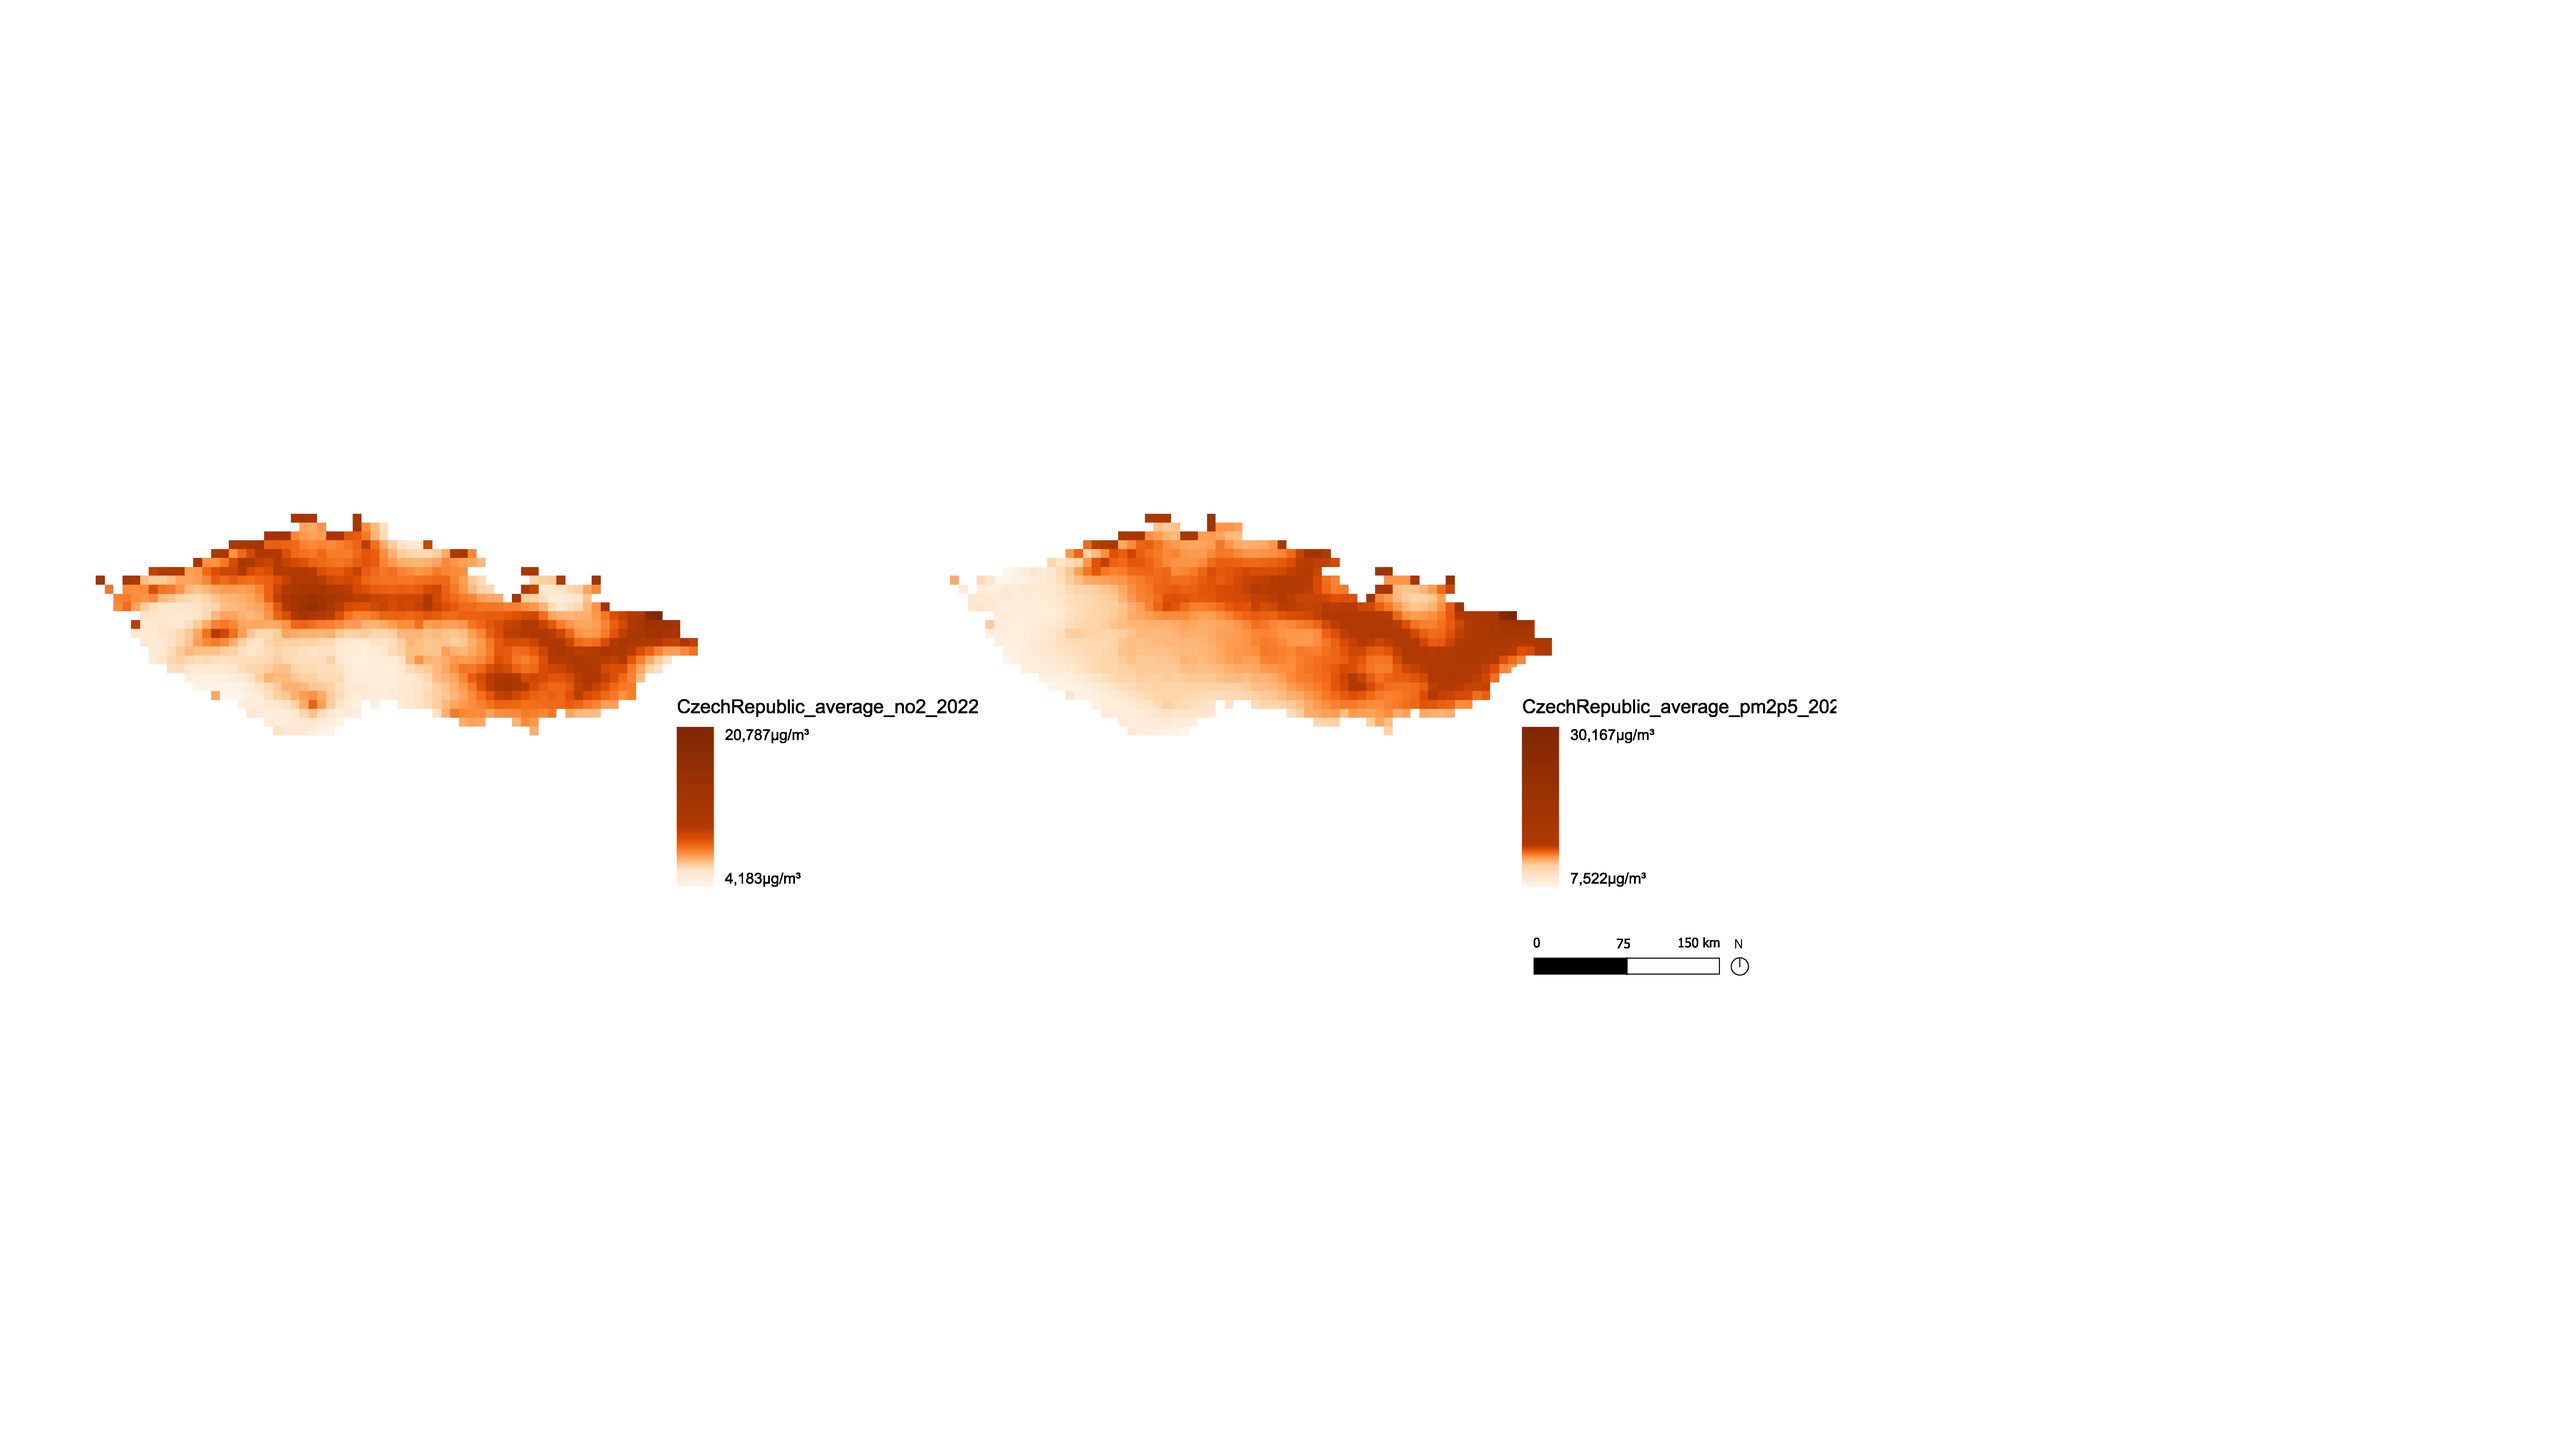
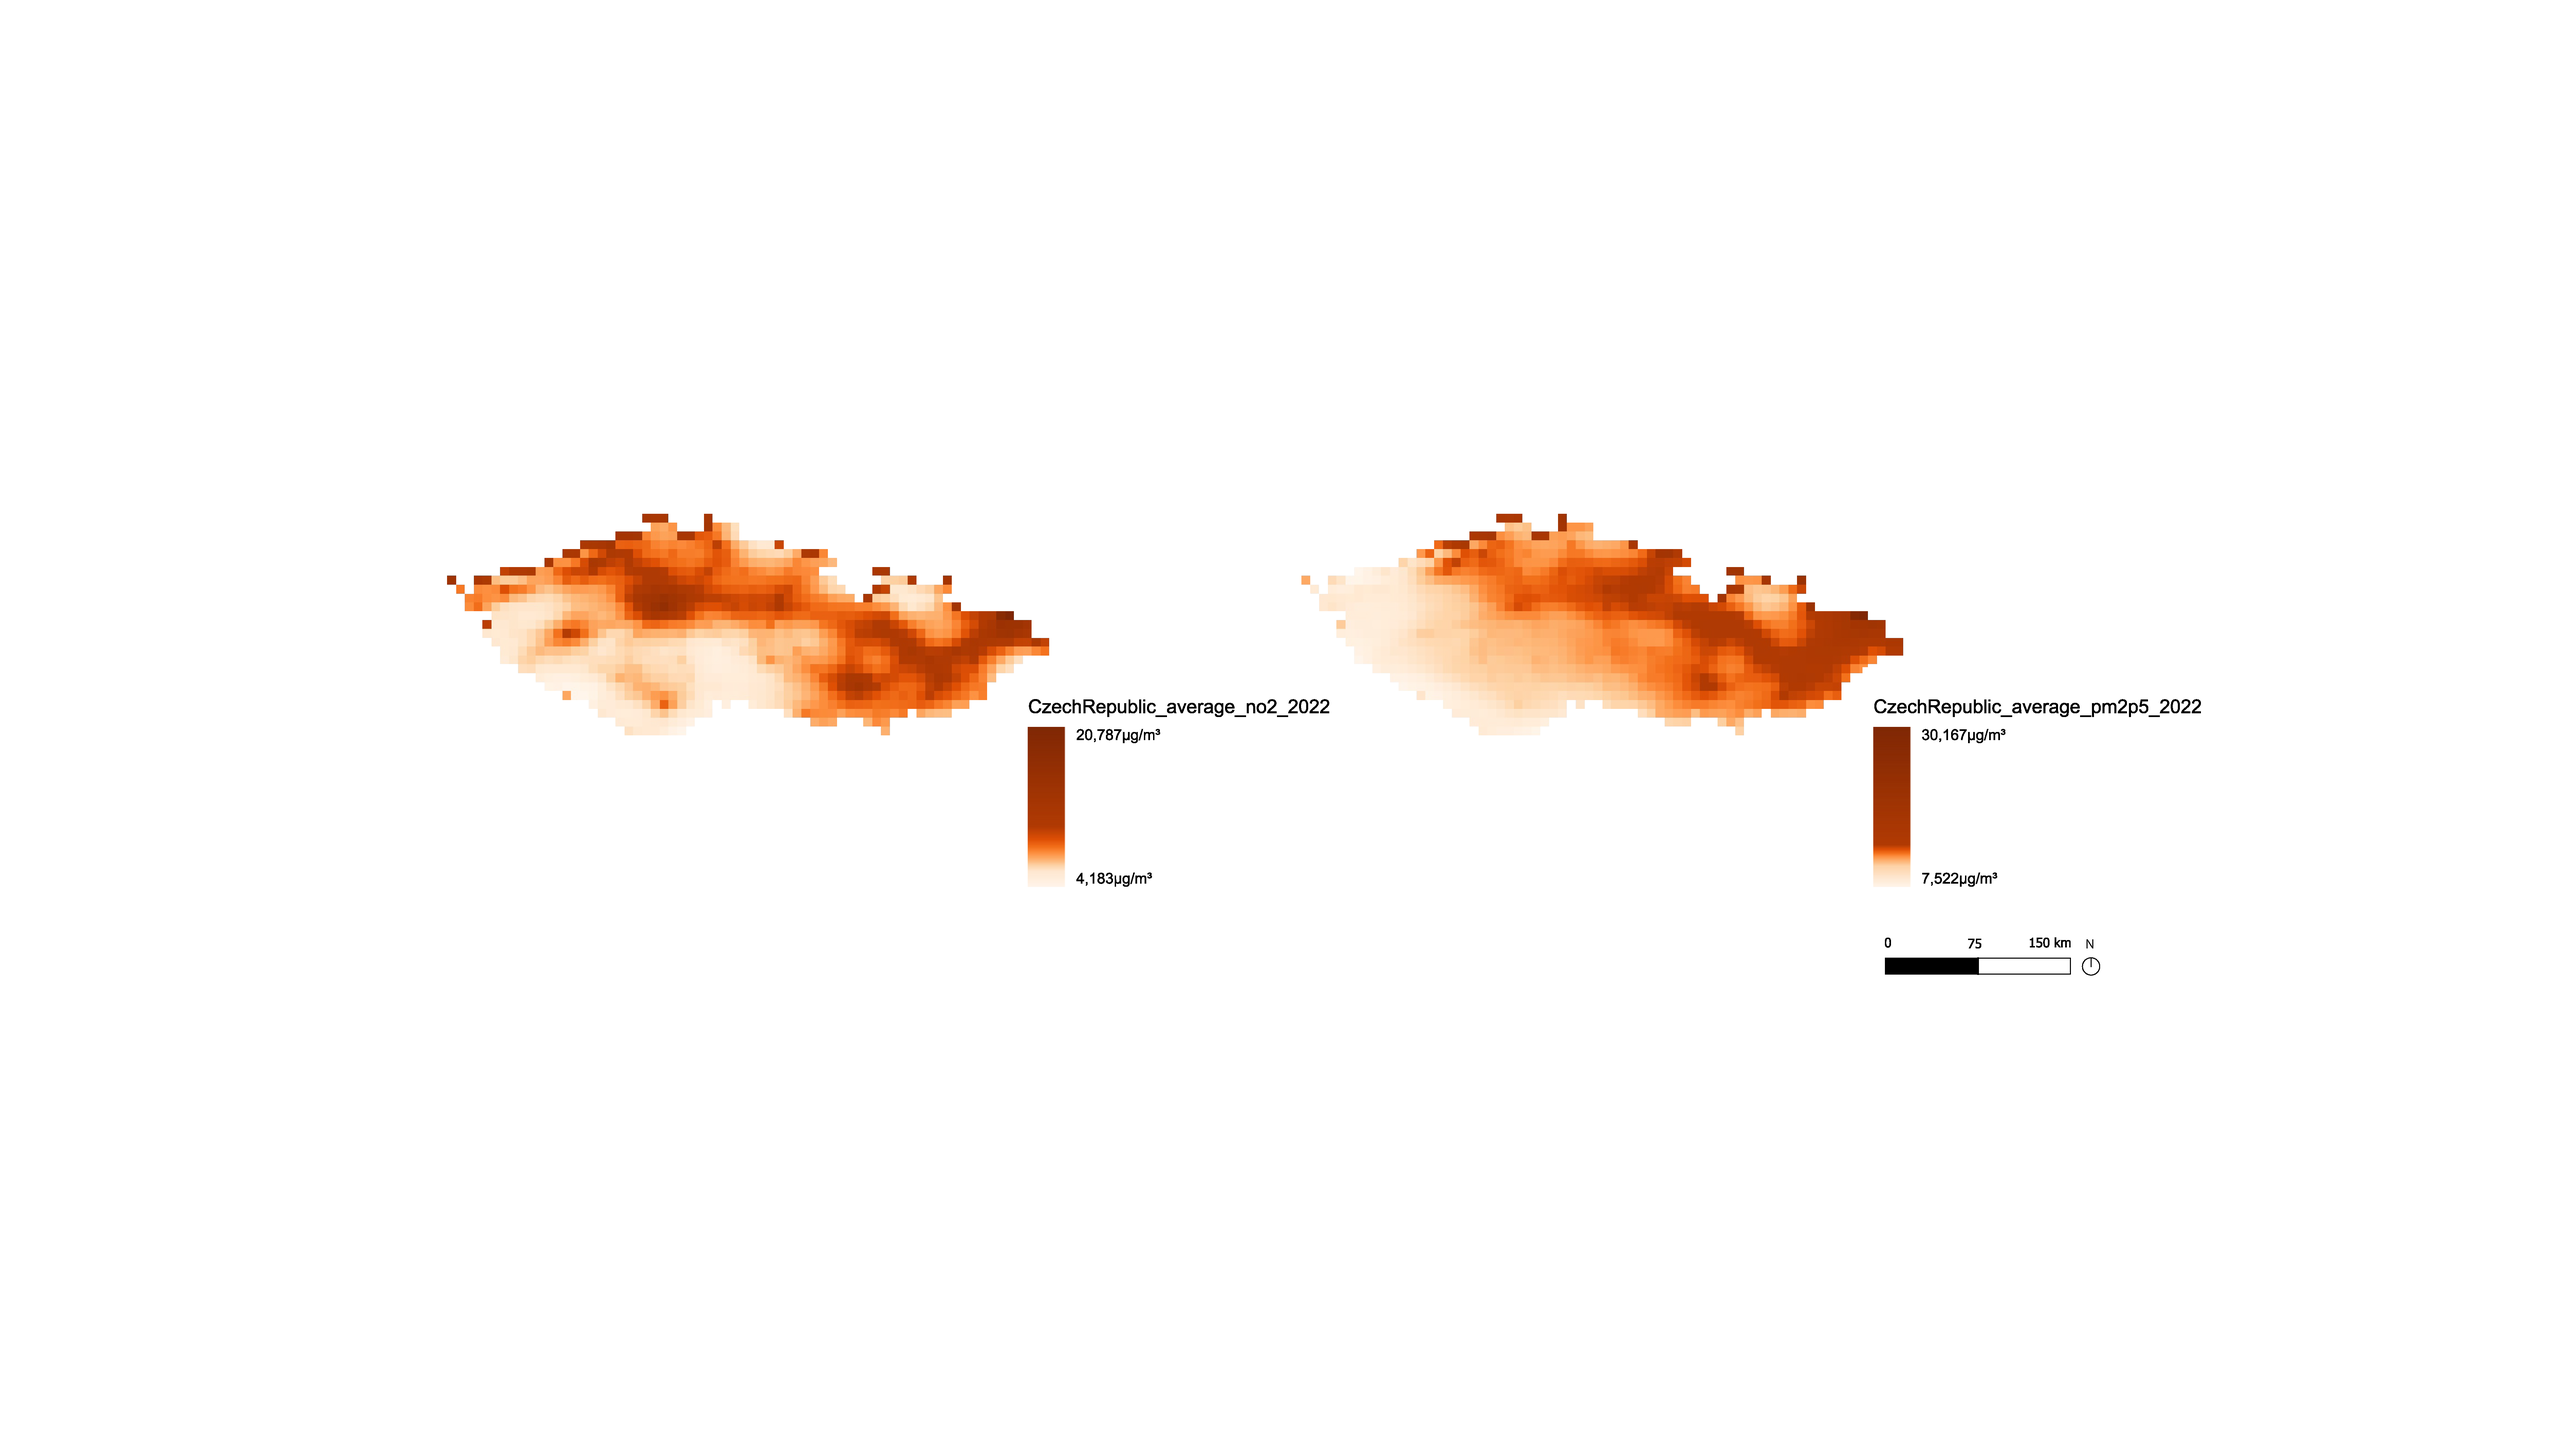
scala mappe

diff --git a/results.html b/results.html
@@ -59,6 +59,11 @@
 			flex-direction: column;
 			gap: 2em;
 			padding: 2em;
+
+
+			/*  Imposta una larghezza massima centrata senza sfondo */
+			max-width: 1200px;
+			margin: 0 auto;
 		}
 
 		.left-column {
@@ -94,6 +99,26 @@
 		.right-column p {
 			font-size: 1em;
 		}
+
+
+		/* Nuovo stile per contenitore mappa */
+		.map-container {
+			width: 800px;
+			height: 400px;
+			overflow: hidden;
+			position: relative;
+			margin: 0 auto;
+		}
+
+		.map-container img {
+			position: absolute;
+			top: 50%;
+			left: 50%;
+			transform: translate(-50%, -50%);
+			object-fit: none;
+			width: auto;
+			height: auto;
+		}
 	</style>
 </head>
 
@@ -126,72 +151,74 @@
 					</p>
 				</div>
 				<div class="left-column" style="border: none;">
-					<img src="images/primamappa.png" alt="Average Pollutant Map" style="max-width:100%; height:auto;">
+					<div class="map-container">
+						<img src="images/primamappa.png" alt="Average Pollutant Map">
+					</div>
 				</div>
-			</div>
 
-			<!-- Section 2 -->
-			<div class="result-section">
-				<div class="right-column">
-					<h2>Yearly Concentration Maps</h2>
-					<p>
-						Maps reclassified pollutant values into five categories, enabling visual temporal comparisons.
-					</p>
+				<!-- Section 2 -->
+				<div class="result-section">
+					<div class="right-column">
+						<h2>Yearly Concentration Maps</h2>
+						<p>
+							Maps reclassified pollutant values into five categories, enabling visual temporal
+							comparisons.
+						</p>
+					</div>
+					<div class="left-column">Map placeholder for: Yearly Concentration Maps</div>
 				</div>
-				<div class="left-column">Map placeholder for: Yearly Concentration Maps</div>
-			</div>
 
-			<!-- Section 3 -->
-			<div class="result-section">
-				<div class="right-column">
-					<h2>Annual Average Difference</h2>
-					<p>
-						Maps show pollutant differences compared to 2017–2021 mean to assess changes in air quality.
-					</p>
+				<!-- Section 3 -->
+				<div class="result-section">
+					<div class="right-column">
+						<h2>Annual Average Difference</h2>
+						<p>
+							Maps show pollutant differences compared to 2017–2021 mean to assess changes in air quality.
+						</p>
+					</div>
+					<div class="left-column">Map placeholder for: Annual Average Difference</div>
 				</div>
-				<div class="left-column">Map placeholder for: Annual Average Difference</div>
-			</div>
 
-			<!-- Section 4 -->
-			<div class="result-section">
-				<div class="right-column">
-					<h2>Urban Settlements</h2>
-					<p>Time-series statistics per urban land cover class.</p>
+				<!-- Section 4 -->
+				<div class="result-section">
+					<div class="right-column">
+						<h2>Urban Settlements</h2>
+						<p>Time-series statistics per urban land cover class.</p>
+					</div>
+					<div class="left-column" style="border: none;">
+						<img src="images/mean_trends_pm2p5.png" alt="Urban mean trends"
+							style="max-width:100%; height:auto;">
+					</div>
 				</div>
-				<div class="left-column" style="border: none;">
-					<img src="images/mean_trends_pm2p5.png" alt="Urban mean trends"
-						style="max-width:100%; height:auto;">
-				</div>
-			</div>
 
-			<!-- Section 5 -->
-			<div class="result-section">
-				<div class="right-column">
-					<h2>Population Exposure</h2>
-					<p>
-						Overlay of pollution and population data to estimate exposure to levels above WHO limits.
-					</p>
+				<!-- Section 5 -->
+				<div class="result-section">
+					<div class="right-column">
+						<h2>Population Exposure</h2>
+						<p>
+							Overlay of pollution and population data to estimate exposure to levels above WHO limits.
+						</p>
+					</div>
+					<div class="left-column" style="border: none;">
+						<img src="images/population_exposure_pm2p5.png" alt="Population Exposure"
+							style="max-width:100%; height:auto;">
+					</div>
 				</div>
-				<div class="left-column" style="border: none;">
-					<img src="images/population_exposure_pm2p5.png" alt="Population Exposure"
-						style="max-width:100%; height:auto;">
-				</div>
-			</div>
 
+			</div>
 		</div>
-	</div>
 
-	<!-- Footer -->
-	<footer id="footer">
-		<span class="copyright">&copy; Untitled. Design: <a href="http://html5up.net">HTML5 UP</a>.</span>
-	</footer>
+		<!-- Footer -->
+		<footer id="footer">
+			<span class="copyright">&copy; Untitled. Design: <a href="http://html5up.net">HTML5 UP</a>.</span>
+		</footer>
 
-	<script>
-		window.onload = function () { document.body.classList.remove('is-preload'); }
-		window.ontouchmove = function () { return false; }
-		window.onorientationchange = function () { document.body.scrollTop = 0; }
-	</script>
-	<script src="assets/js/main.js"></script>
+		<script>
+			window.onload = function () { document.body.classList.remove('is-preload'); }
+			window.ontouchmove = function () { return false; }
+			window.onorientationchange = function () { document.body.scrollTop = 0; }
+		</script>
+		<script src="assets/js/main.js"></script>
 </body>
 
 </html>
